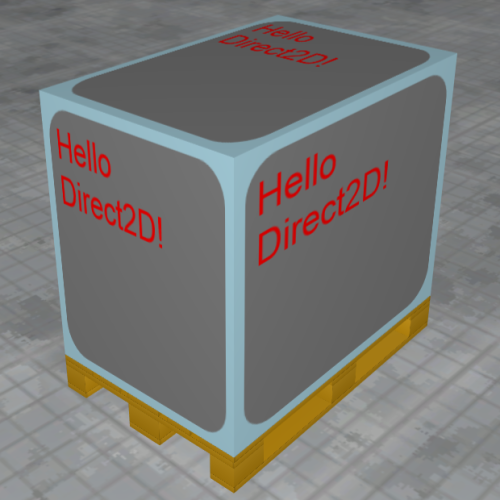
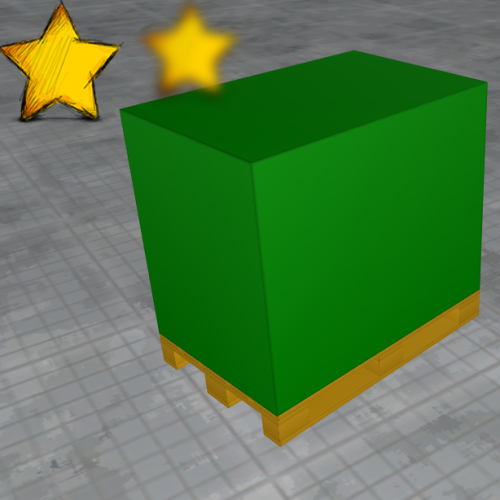
Samples: Finished effect sample

diff --git a/SeeingSharp.Multimedia/Drawing2D/Graphics2D.cs b/SeeingSharp.Multimedia/Drawing2D/Graphics2D.cs
@@ -381,6 +381,60 @@ namespace SeeingSharp.Multimedia.Drawing2D
                 sourceRectangle.ToDXRectangle());
         }
 
+#if UNIVERSAL
+        /// <summary>
+        /// Draws the given image.
+        /// </summary>
+        /// <param name="image">The source of pixel data to be rendered.</param>
+        /// <param name="destinationRectangle">The target rectangle where to draw the image.</param>
+        public void DrawImage(
+            IEffectInput image,
+            Vector2 destinationOrigin)
+        {
+            image.EnsureNotNull("bitmap");
+
+            IEffectInputInternal internalImage = image as IEffectInputInternal;
+            internalImage.EnsureNotNull("internalImage");
+
+            D2D.Image d2dImage = internalImage.GetInputObject(m_device) as D2D.Image;
+            d2dImage.EnsureNotNull("d2dImage");
+
+            m_deviceContext.DrawImage(
+                d2dImage,
+                destinationOrigin.ToDXVector(),
+                null,
+                D2D.InterpolationMode.Linear,
+                D2D.CompositeMode.SourceOver);
+        }
+
+        /// <summary>
+        /// Draws the given image.
+        /// </summary>
+        /// <param name="image">The source of pixel data to be rendered.</param>
+        /// <param name="destinationRectangle">The target rectangle where to draw the image.</param>
+        /// <param name="sourceRectangle">The area which to take from the bitmap.</param>
+        public void DrawImage(
+            IEffectInput image,
+            Vector2 destinationOrigin,
+            RectangleF sourceRectangle)
+        {
+            image.EnsureNotNull("bitmap");
+
+            IEffectInputInternal internalImage = image as IEffectInputInternal;
+            internalImage.EnsureNotNull("internalImage");
+
+            D2D.Image d2dImage = internalImage.GetInputObject(m_device) as D2D.Image;
+            d2dImage.EnsureNotNull("d2dImage");
+     
+            m_deviceContext.DrawImage(
+                d2dImage,
+                destinationOrigin.ToDXVector(),
+                sourceRectangle.ToDXRectangle(),
+                D2D.InterpolationMode.Linear,
+                D2D.CompositeMode.SourceOver);
+        }
+#endif
+
         /// <summary>
         /// Gets the device which is used for rendering.
         /// </summary>

diff --git a/Samples/SeeingSharp.Samples.Base/_Samples/Direct2D/Direct2DSimpleEffect.cs b/Samples/SeeingSharp.Samples.Base/_Samples/Direct2D/Direct2DSimpleEffect.cs
@@ -74,7 +74,14 @@ namespace SeeingSharp.Samples.Base.Direct2D
             // Define 2D overlay
             Action<Graphics2D> draw2DAction = (graphics) =>
             {
-                
+                graphics.DrawBitmap(
+                    m_starBitmap,
+                    new Vector2(10f, 100f),
+                    1f,
+                    BitmapInterpolationMode.Linear);
+                graphics.DrawImage(
+                    m_startBitmapShaded,
+                    new Vector2(150f, 100f));
 
                 //// 2D rendering is made here
                 //RectangleF d2dRectangle = new RectangleF(

diff --git a/SeeingSharp.Multimedia/Drawing2D/_DeviceResources/_Direct2D/EffectResource.cs b/SeeingSharp.Multimedia/Drawing2D/_DeviceResources/_Direct2D/EffectResource.cs
@@ -77,7 +77,7 @@ namespace SeeingSharp.Multimedia.Drawing2D
                 D2D.Effects.GaussianBlur blurEffect = new D2D.Effects.GaussianBlur(device.DeviceContextD2D);
                 blurEffect.BorderMode = D2D.BorderMode.Soft;
                 blurEffect.Optimization = D2D.GaussianBlurOptimization.Quality;
-                blurEffect.StandardDeviation = 2f;
+                blurEffect.StandardDeviation = 5f;
                 effect = blurEffect;
 
                 // Set input values

diff --git a/SeeingSharp.Multimedia/Drawing2D/_DeviceResources/_Direct2D/BitmapResource.cs b/SeeingSharp.Multimedia/Drawing2D/_DeviceResources/_Direct2D/BitmapResource.cs
@@ -42,7 +42,8 @@ namespace SeeingSharp.Multimedia.Drawing2D
         /// <param name="device">The device for which to get the input.</param>
         IDisposable IEffectInputInternal.GetInputObject(EngineDevice device)
         {
-            return this.GetBitmap(device);
+            return this.GetBitmap(device)
+                .QueryInterface<D2D.Bitmap>();
         }
 
         public abstract int PixelWidth
